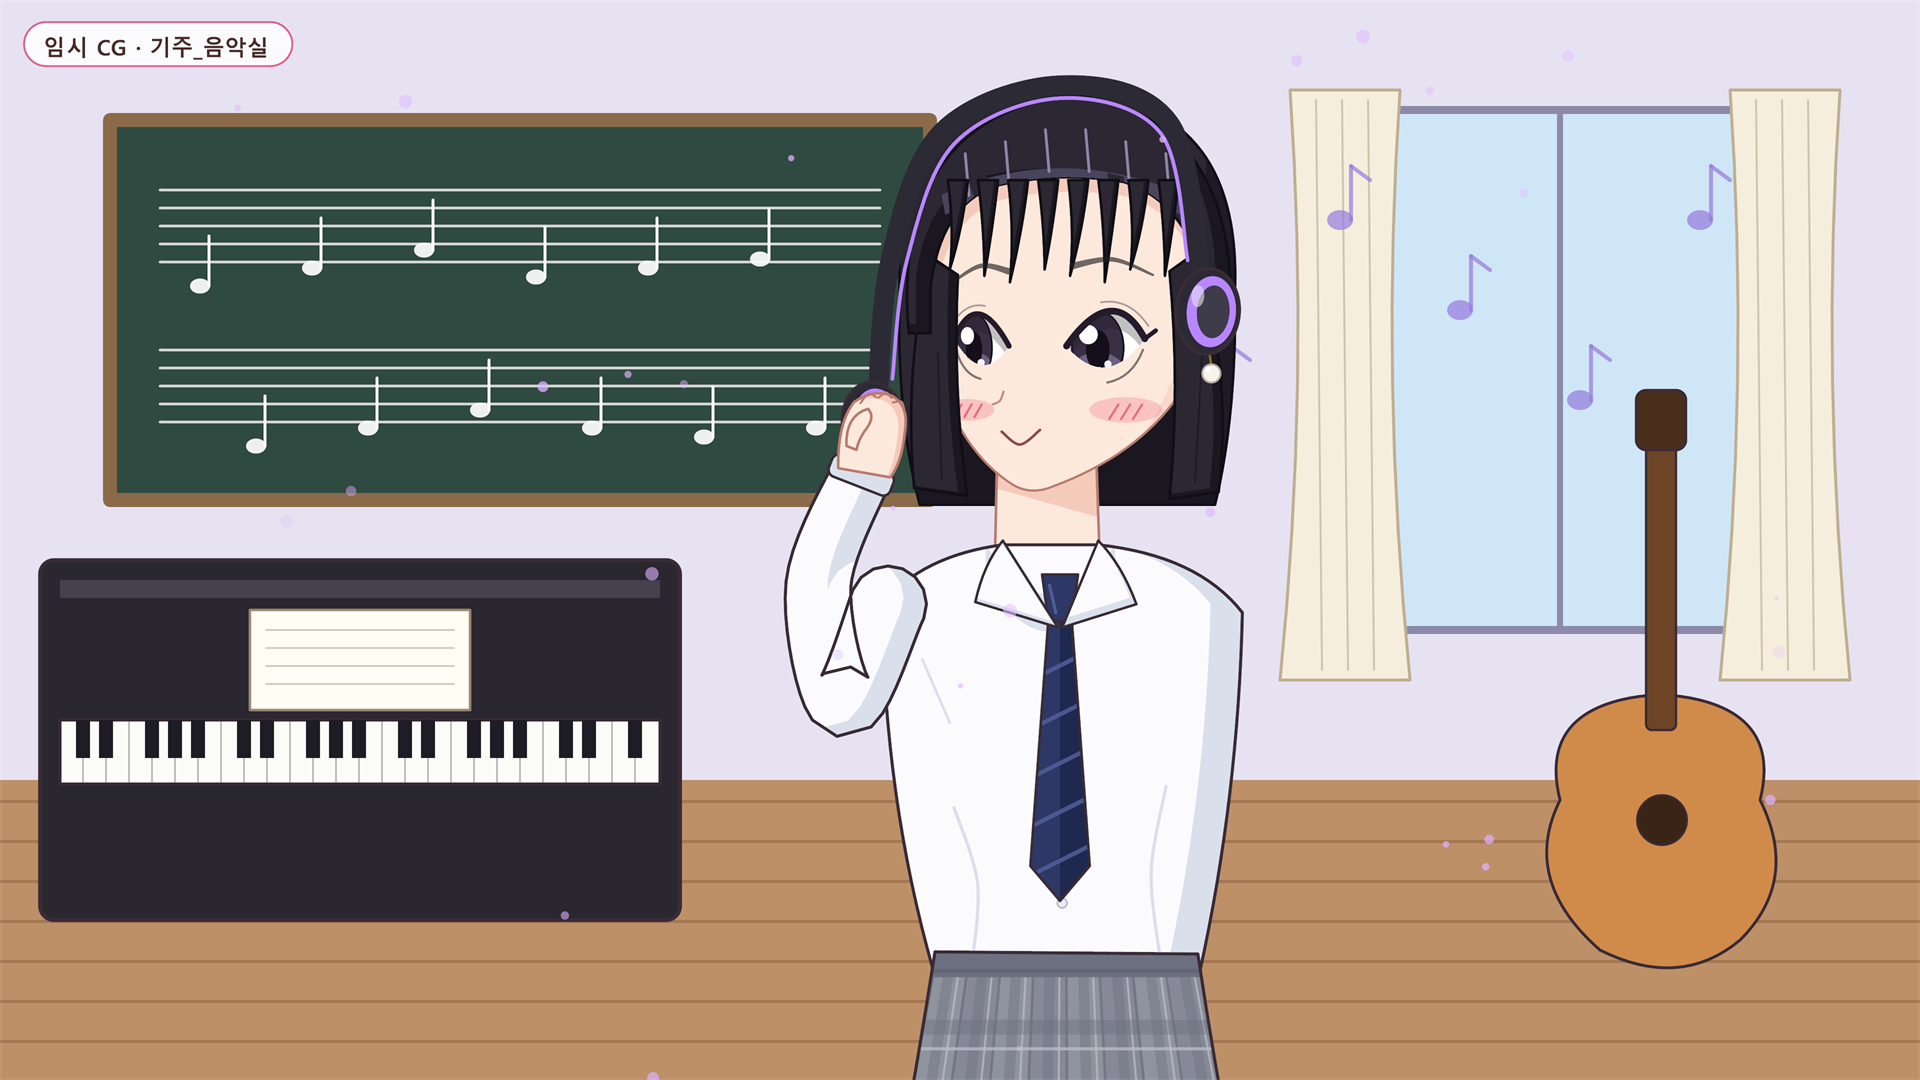
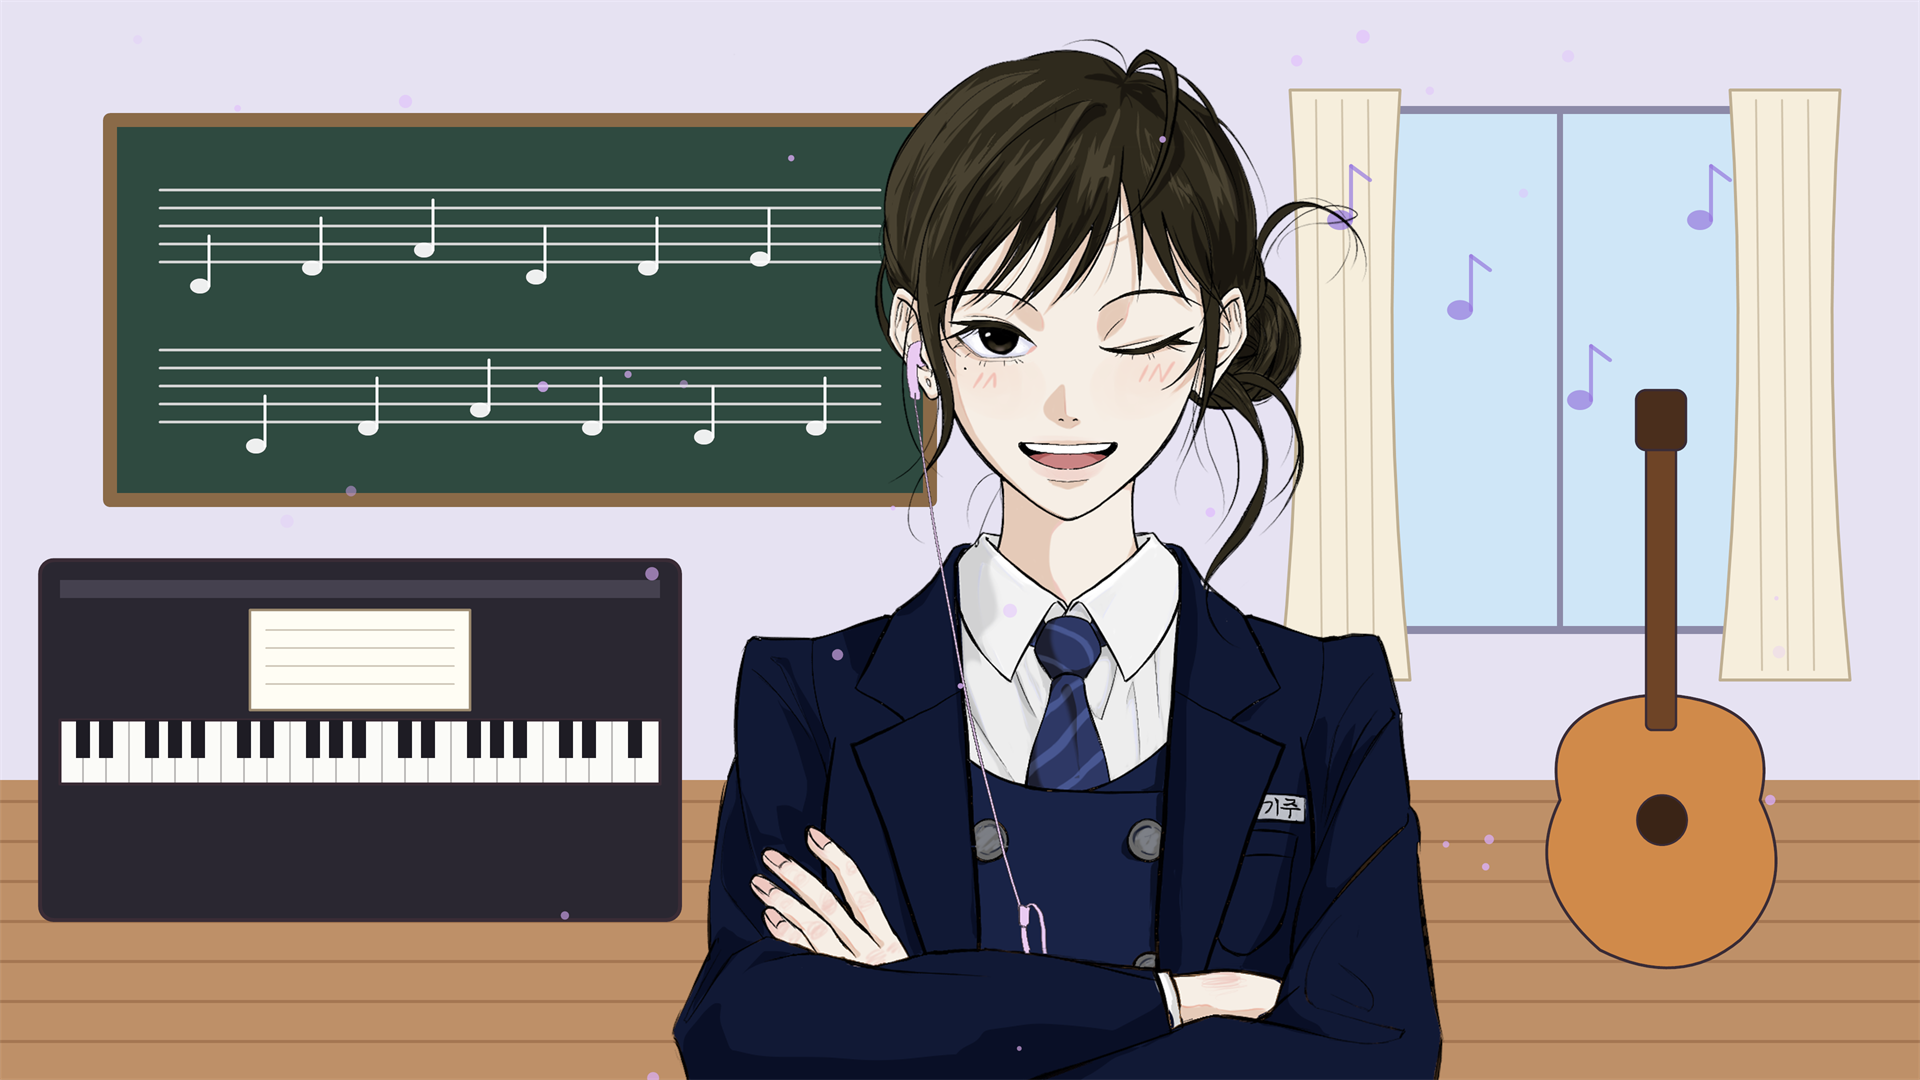
기주 음악실 CG와 하렘 엔딩 CG 속 기주도 친구 그림으로 교체

Changed region(s): [[0.3438, 0.0306, 0.75, 1.0], [0.0, 0.0, 0.1562, 0.0611]]

diff --git a/Tools/PlaceholderArt/PlaceholderArt.cs b/Tools/PlaceholderArt/PlaceholderArt.cs
@@ -1470,11 +1470,11 @@ public static class PlaceholderArt
             var a = CG("happy", "raised", "grin", "peace", true);
             var b = CG("open", "raised", "o", "phone", true); b.Sparkle = true;
             var c = CG("happy", "raised", "open", "carrot", true);
-            var dd = CG("wink", "raised", "grin", "sides", true);
+            // 기주는 친구가 그린 진짜 그림(윙크)을 맨 앞 오른쪽에
             Place(g, Find("수민"), b, 780, 160, 0.78f, true);
             Place(g, Find("서연"), c, 1160, 160, 0.78f, false);
             Place(g, Find("승현"), a, 440, 220, 0.84f, true);
-            Place(g, Find("기주"), dd, 1500, 220, 0.84f, false);
+            DrawRealArt(g, "Characters/기주_웃음.png", new Rectangle(0, 60, 1200, 1480), 1520, 230, 0.6f);
             Particles(g, 60, H("#FFE7B8"), 6);
             Caption(g, "임시 CG · 하렘_엔딩");
         };
@@ -1593,10 +1593,10 @@ public static class PlaceholderArt
                 Line(g, A(H("#9A7AE0"), 200), 4f, nx + 11, ny, nx + 11, ny - 54);
                 Line(g, A(H("#9A7AE0"), 200), 4f, nx + 11, ny - 54, nx + 30, ny - 40);
             }
-            var k = CG("open", "raised", "smile", "headphoneShare", true); k.LookX = -0.6f;
-            Place(g, Find("기주"), k, 1060, -20, 1.0f, false);
+            // 친구가 그린 진짜 기주 그림(윙크) — 남자 기주도 이 CG 를 그대로 씀
+            DrawRealArt(g, "Characters/기주_웃음.png", new Rectangle(0, 60, 1200, 1340), 1060, 20, 0.8f);
             Particles(g, 30, H("#E0B6FF"), 14);
-            Caption(g, "임시 CG · 기주_음악실");
+            // (진짜 그림이라 "임시 CG" 표시 없음)
         };
 
         d["수민_편의점"] = g =>
@@ -1722,7 +1722,7 @@ public static class PlaceholderArt
     // 진짜 그림이 들어간 캐릭터 — 스탠딩(여자·남자 모두)을 만들지 않음 (덮어쓰기 방지)
     static readonly string[] RealStanding = { "기주" };
     // 진짜 그림으로 만든 CG — 남자 버전("_남")을 따로 만들지 않음 (같은 CG 를 씀)
-    static readonly string[] RealArtCG = { "기주_엔딩" };
+    static readonly string[] RealArtCG = { "기주_엔딩", "기주_음악실" };
 
     static string projectRoot;
 

diff --git a/CLAUDE.md b/CLAUDE.md
@@ -34,7 +34,7 @@
 - 2026-10-13 15:53~16:06 등장인물 성별 선택, 남자 스탠딩·CG, 공주님/왕자님 자동 변환 → 16:16 웹 반영
 - 2026-10-14 폰 세로 화면 지원(VNOrientation), 서연(포니테일·당근 인형)·기주(귀티 나는 아가씨) 설정 변경 + 임시 그림 다시 그림
 - 2026-10-18 기주 스탠딩 4장을 친구가 그린 진짜 그림으로 교체 (기본/윙크→웃음/홍조→부끄럼/화남, 1200x2700 투명 PNG). 남자 기주도 같은 그림, 기주 설정을 그림 기준(갈색 똥머리·분홍 이어폰·팔짱)으로 변경
-- 2026-10-18 기주 엔딩 CG도 친구 그림(홍조)으로 교체 (임시 밤 옥상 배경 위에 합성)
+- 2026-10-18 기주 CG(엔딩·음악실·하렘 엔딩 속 기주)도 친구 그림으로 교체 (임시 배경 위에 합성)
 
 ## 게임 설정 (사용자가 정한 것 — 바꾸지 말 것)
 
@@ -72,7 +72,7 @@ Assets/Scenes/Main.unity       유일한 씬. 전체 UI가 VNSceneBuilder로 생
 ```
 
 - 이미지는 현재 전부 코드로 그린 **임시 이미지**. 사용자가 AI로 뽑은 그림으로 같은 파일명에 덮어씀
-- **진짜 그림 (덮어쓰기 절대 금지)**: `Characters/기주_기본·웃음·부끄럼·화남.png`, `CG/기주_엔딩.png`(밤 옥상 배경 + 기주_부끄럼 상반신, PlaceholderArt `DrawRealArt`로 합성. 남자 버전 없음 = 남자 기주도 같은 CG) (친구가 그린 그림, 2026-10-18). 정면 보기·가슴에 "기주" 이름표가 그려져 있어 좌우반전 시 글씨가 뒤집히지만 **사용자가 괜찮다고 함**. 남자 기주도 이 그림을 그대로 씀(`기주_남_*` 삭제됨, PlaceholderArt 의 `RealStanding` 에 등록해 다시 안 만듦). 기주 설정·프롬프트·스토리 메모는 이 그림 기준으로 맞춤
+- **진짜 그림 (덮어쓰기 절대 금지)**: `Characters/기주_기본·웃음·부끄럼·화남.png`, `CG/기주_엔딩.png`(밤 옥상 + 기주_부끄럼), `CG/기주_음악실.png`(음악실 + 기주_웃음=윙크), `CG/하렘_엔딩(_남).png` 속 기주(기주_웃음) — 모두 임시 배경 위에 PlaceholderArt `DrawRealArt`로 합성. 기주 단독 CG는 남자 버전 없음 = 남자 기주도 같은 CG (친구가 그린 그림, 2026-10-18). 정면 보기·가슴에 "기주" 이름표가 그려져 있어 좌우반전 시 글씨가 뒤집히지만 **사용자가 괜찮다고 함**. 남자 기주도 이 그림을 그대로 씀(`기주_남_*` 삭제됨, PlaceholderArt 의 `RealStanding` 에 등록해 다시 안 만듦). 기주 설정·프롬프트·스토리 메모는 이 그림 기준으로 맞춤
 - 임시 스탠딩·CG 생성기: `Tools/PlaceholderArt/` (C# 5, System.Drawing, `run.ps1 [이름 일부]`로 실행). **같은 이름 파일을 덮어쓰니 사용자가 진짜 그림을 넣은 뒤에는 실행 금지.** .cs는 UTF-8 BOM 필수. 캐릭터는 800x1400 왼쪽 보기, 머리는 (400,612) 기준 0.86배
 - **스토리는 현재 뼈대 상태** (사용자 선택). 선택지·호감도·분기는 완성, 대사는 `[작성]` 표시 줄로 비워 둠 → 사용자가 직접 채움. 검사기가 `[작성]` 개수를 셈. 사용자가 요청하지 않으면 대사를 대신 채우지 말 것
 - 모드 목록은 `VNEngine.modes` (이름/설명/첫 파일). 세이브에 모드 이름·첫 파일·게이지 목록·화자도 저장됨

diff --git a/캐릭터_프롬프트.md b/캐릭터_프롬프트.md
@@ -282,6 +282,8 @@ black hair, long hair, straight hair, high ponytail, blunt bangs, grey hooded zi
 
 ### 6-7. `하렘_엔딩.png` — [승주가 되기] 하렘 엔딩
 
+> ✅ 지금 들어 있는 임시 CG에서 **기주만** 친구가 그린 그림(윙크)이에요. 나머지 셋은 임시 그림이에요.
+
 장면: 축제 밤 옥상. 넷이 승주(=화면)를 둘러싸고 다 같이 웃는 단체 장면.
 
 ```
@@ -314,6 +316,8 @@ black hair, long hair, straight hair, high ponytail, blunt bangs, grey hooded zi
 ```
 
 ### 7-3. `기주_음악실.png` — 음악실, 이어폰
+
+> ✅ 지금은 친구가 그린 기주 그림(윙크)을 임시 음악실 배경 위에 올린 CG가 들어가 있어요. 남자 기주도 같은 CG예요.
 
 장면: 방과후 음악실(피아노, 칠판의 오선, 기타). 기주가 자기 분홍 이어폰 한쪽을 빼서 승주(=화면)에게 내밂.
 
